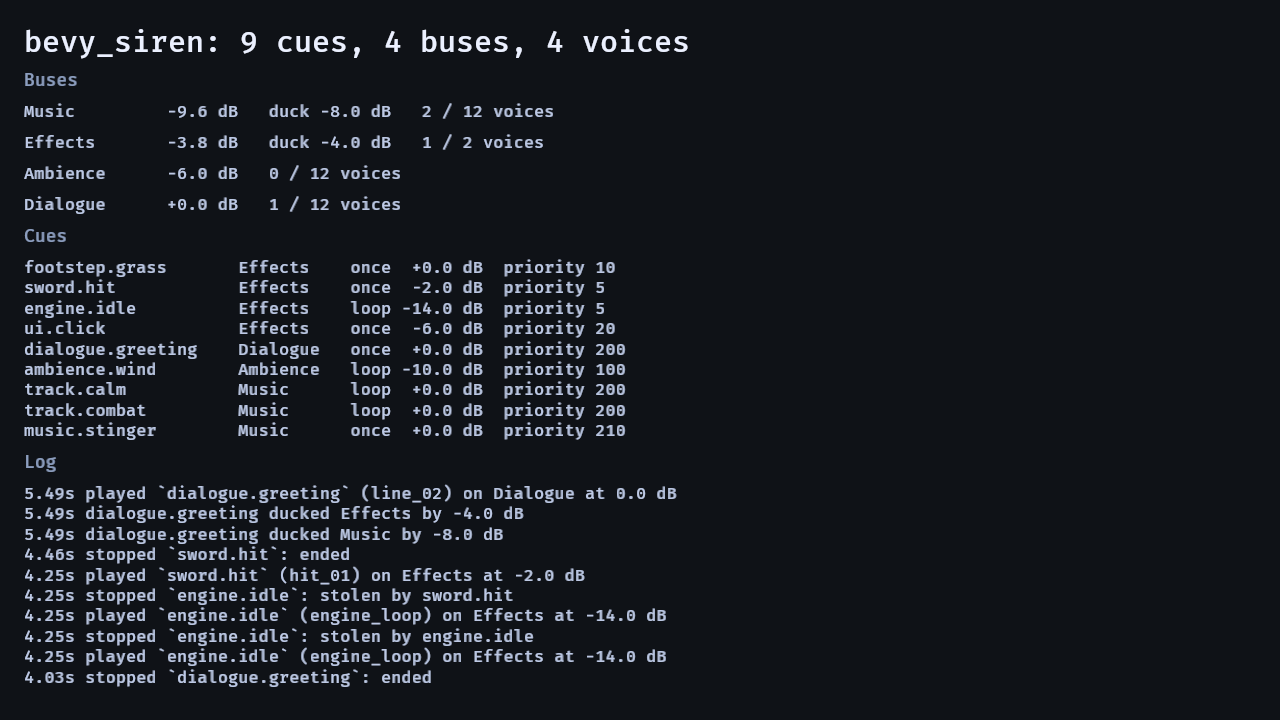
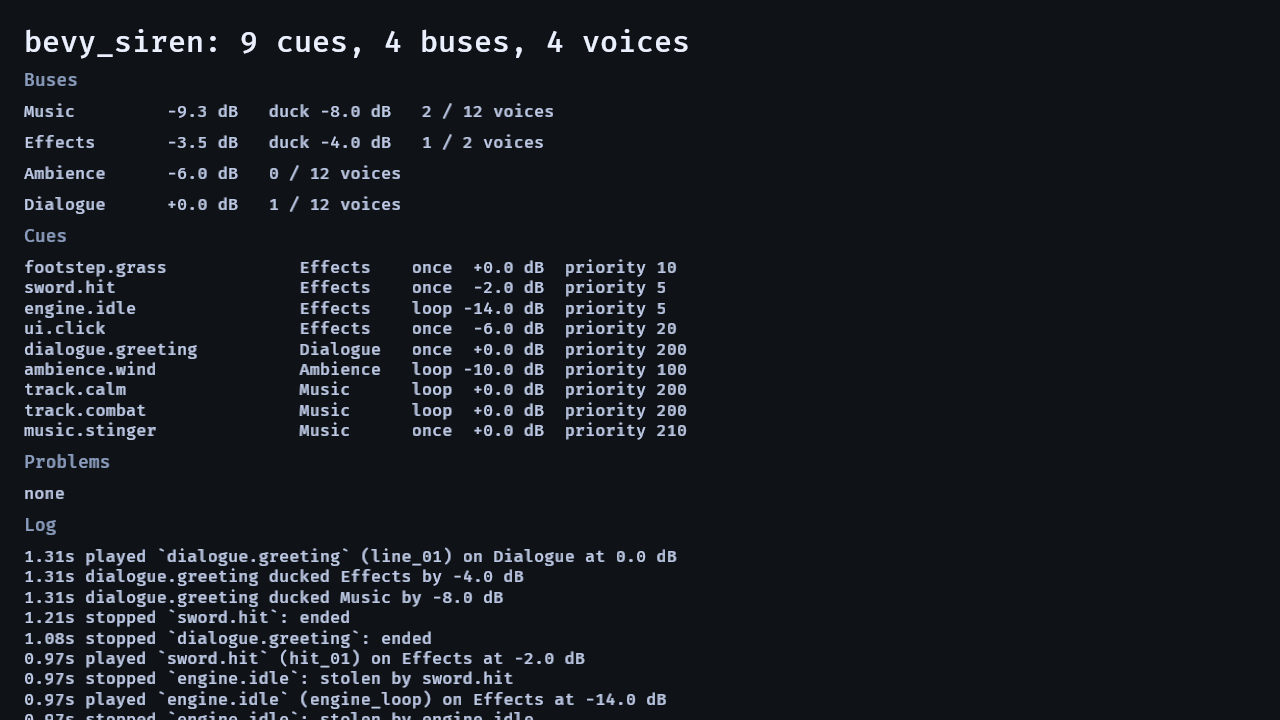
docs: the README shows the panel the code draws
Both images the README carries were generated 2026-11-02 14:40 - BEFORE iteration 26 gave the panel
its `Problems` block - and the alt text named "eight cues ... eight log lines" where the shipped
table has NINE cues and the log shows TEN. A third media file, `mixer-panel.gif`, was created by
iteration 26 and named in NO README.

So the front door of the crate showed a panel the code no longer draws, described in counts the
picture does not show. Nothing in `cargo test` reads `docs/`, which is why 26 iterations of a loop
whose step 6 is "look at the panel" never looked at the picture the README shows.

  docs/media/mixer.png   regenerated from the CLEAN table - the state a project ships:
                         nine cues, `Problems` / `none`
  docs/media/mixer.gif   regenerated with SIREN_FAULTS=1 - two rows `<- problem`, the block naming
                         both, so the view proves itself through the animation
  docs/media/mixer-panel.gif   DELETED - the orphan; one name per artefact
  both alt texts          rewritten from the pictures, counts read off them, and the GIF's alt
                         describes the ANIMATION rather than one frame

A defect in my own alt text, caught by looking: the first version said "Dialogue ducking Music by
8 dB" - but the GIF's first frame shows Music at -2.0 dB with no duck, because the animation starts
at frame 30. Alt text for an animation must describe what happens, not one frame's state.
[…]

Changed region(s): [[0.0, 0.6111, 0.5312, 1.0], [0.1875, 0.3667, 0.5312, 0.6111]]

diff --git a/docs/loop/runs/2026-11-03-29/check_media.py b/docs/loop/runs/2026-11-03-29/check_media.py
@@ -1,0 +1,34 @@
+"""Every image the docs name must exist, and every image in docs/media must be named.
+
+A README that shows a broken or stale picture is the front door of the crate, and nothing in `cargo test` looks at it.
+This is the check the loop runs by hand; it is not part of the crate's suite because the crate does not ship `docs/`.
+"""
+import re, sys, pathlib
+
+here = pathlib.Path(__file__).resolve()
+root = next(p for p in here.parents if (p / "Cargo.toml").is_file())
+readme = (root / "README.md").read_text()
+media_readme = (root / "docs/media/README.md").read_text()
+fail = 0
+
+# 1. Every raw.githubusercontent URL in README.md names a file that exists.
+for name in re.findall(r"raw\.githubusercontent\.com/[\w\-/]+/main/docs/media/([\w.\-]+)", readme):
+    p = root / "docs/media" / name
+    print(f"{'ok  ' if p.is_file() else 'MISS'}  README.md -> docs/media/{name}")
+    fail += 0 if p.is_file() else 1
+
+# 2. Every local image reference in docs/media/README.md exists.
+for name in re.findall(r"!\[[^\]]*\]\(([\w.\-]+)\)", media_readme):
+    p = root / "docs/media" / name
+    print(f"{'ok  ' if p.is_file() else 'MISS'}  docs/media/README.md -> docs/media/{name}")
+    fail += 0 if p.is_file() else 1
+
+# 3. Every image file in docs/media is referenced by at least one of the two.
+for p in sorted((root / "docs/media").glob("*")):
+    if p.suffix in {".png", ".gif"}:
+        named = p.name in readme or p.name in media_readme
+        print(f"{'ok  ' if named else 'ORPH'}  docs/media/{p.name} is named in a README")
+        fail += 0 if named else 1
+
+print(f"\n{fail} problem(s)")
+sys.exit(1 if fail else 0)

diff --git a/CHANGELOG.md b/CHANGELOG.md
@@ -20,6 +20,13 @@ and the project follows [Semantic Versioning](https://semver.org/spec/v2.0.0.htm
 
 ### Fixed
 
+- **The README shows the panel the code draws.** Both images it carries — `docs/media/mixer.png` and `docs/media/mixer.gif` —
+  were generated *before* the panel gained its `Problems` block, so a developer's first look at the crate showed a panel
+  that no longer existed; the alt text named *"eight cues … eight log lines"* where the shipped table has nine cues and
+  the log shows ten. They are regenerated (the still from the clean table, the GIF with `SIREN_FAULTS=1` so the `Problems`
+  block and the `<- problem` markers are visible), the alt text is read off the new pictures, and the orphan
+  `docs/media/mixer-panel.gif` that iteration 26 created and no README named is gone.
+
 - **A voice whose entity is despawned frees its mixer slot.** `Play::on(entity)` parents the voice to a game entity, and
   despawning that entity is the ordinary way a parented sound ends. On Bevy's path the sink is a component on the voice's
   own entity and dies with it; on the crate's own mixer the voice's number was also a component there, so the despawn
@@ -82,6 +89,13 @@ and the project follows [Semantic Versioning](https://semver.org/spec/v2.0.0.htm
   answer every other reader uses. `problems()` keeps its documented default-four meaning and now says what it assumes.
 
 ### Fixed
+
+- **The README shows the panel the code draws.** Both images it carries — `docs/media/mixer.png` and `docs/media/mixer.gif` —
+  were generated *before* the panel gained its `Problems` block, so a developer's first look at the crate showed a panel
+  that no longer existed; the alt text named *"eight cues … eight log lines"* where the shipped table has nine cues and
+  the log shows ten. They are regenerated (the still from the clean table, the GIF with `SIREN_FAULTS=1` so the `Problems`
+  block and the `<- problem` markers are visible), the alt text is read off the new pictures, and the orphan
+  `docs/media/mixer-panel.gif` that iteration 26 created and no README named is gone.
 
 - **A voice whose entity is despawned frees its mixer slot.** `Play::on(entity)` parents the voice to a game entity, and
   despawning that entity is the ordinary way a parented sound ends. On Bevy's path the sink is a component on the voice's
@@ -271,6 +285,13 @@ and the project follows [Semantic Versioning](https://semver.org/spec/v2.0.0.htm
 
 ### Fixed
 
+- **The README shows the panel the code draws.** Both images it carries — `docs/media/mixer.png` and `docs/media/mixer.gif` —
+  were generated *before* the panel gained its `Problems` block, so a developer's first look at the crate showed a panel
+  that no longer existed; the alt text named *"eight cues … eight log lines"* where the shipped table has nine cues and
+  the log shows ten. They are regenerated (the still from the clean table, the GIF with `SIREN_FAULTS=1` so the `Problems`
+  block and the `<- problem` markers are visible), the alt text is read off the new pictures, and the orphan
+  `docs/media/mixer-panel.gif` that iteration 26 created and no README named is gone.
+
 - **A voice whose entity is despawned frees its mixer slot.** `Play::on(entity)` parents the voice to a game entity, and
   despawning that entity is the ordinary way a parented sound ends. On Bevy's path the sink is a component on the voice's
   own entity and dies with it; on the crate's own mixer the voice's number was also a component there, so the despawn
@@ -348,6 +369,13 @@ and the project follows [Semantic Versioning](https://semver.org/spec/v2.0.0.htm
 The first release: sound for Bevy 0.20 as data, mixed in buses.
 
 ### Fixed
+
+- **The README shows the panel the code draws.** Both images it carries — `docs/media/mixer.png` and `docs/media/mixer.gif` —
+  were generated *before* the panel gained its `Problems` block, so a developer's first look at the crate showed a panel
+  that no longer existed; the alt text named *"eight cues … eight log lines"* where the shipped table has nine cues and
+  the log shows ten. They are regenerated (the still from the clean table, the GIF with `SIREN_FAULTS=1` so the `Problems`
+  block and the `<- problem` markers are visible), the alt text is read off the new pictures, and the orphan
+  `docs/media/mixer-panel.gif` that iteration 26 created and no README named is gone.
 
 - **A voice whose entity is despawned frees its mixer slot.** `Play::on(entity)` parents the voice to a game entity, and
   despawning that entity is the ordinary way a parented sound ends. On Bevy's path the sink is a component on the voice's

diff --git a/docs/loop/runs/2026-11-03-29/research.md b/docs/loop/runs/2026-11-03-29/research.md
@@ -1,0 +1,63 @@
+# research.md — iteration 29: the front door shows a panel that no longer exists
+
+## The item
+
+`README.md` is the crate's front door, and it carries **two images of `examples/mixer`**. Both were stale by the time this
+iteration began, and one media file was orphaned:
+
+```
+docs/media/mixer.png    generated 2026-11-02 14:40 — BEFORE iteration 26's Problems block
+  the still shows 9 cues and NO `Problems` section; the panel has had one since iteration 26
+docs/media/mixer.gif    generated 2026-11-02 14:40 — same
+docs/media/mixer-panel.gif   created by iteration 26, named in NO README   <- orphan
+```
+
+And the README's alt text described the **old** panel in numbers a reader can check against the picture:
+
+> *"…the **eight** cues with their buses, modes and priorities, and **eight** log lines"*
+
+The shipped table has **nine** cues and the log shows **ten** lines. A developer's first look at this crate was a
+picture of a panel the code no longer draws, described in counts the picture does not show.
+
+## Sources
+
+**S1. `AGENTS.md`, *"a feature is not done until its README line and, if visible, its GIF exist"*** — and this repository's
+own documentation rule points at `bevy-coven/.github/DOCUMENTATION.md`. A GIF that exists but is stale satisfies the
+letter and not the rule.
+
+**S2. The skill's step 7** — *"A visible change also ships its picture … listed in `docs/media/README.md` with the command
+that regenerates it."* Iterations 25 and 26 changed exactly what the panel draws, regenerated a **third** file
+(`mixer-panel.gif`), and left the two the README points at untouched. The commands were right; the **target** was not.
+
+**S3. `docs/media/README.md`** — it documents `mixer-panel.gif` and the command that writes it. After the deletion below it
+documents `mixer.gif` and `mixer.png` with both commands, so there is **one** name per artefact.
+
+**S4. Nothing in `cargo test` reads `docs/`.** The crate does not ship it, so the suite cannot catch a stale or missing
+image. That is why this survived 26 iterations of a loop whose step 6 is "look at the panel".
+
+## The technique
+
+1. **Regenerate both images the README points at.** The still from the clean table (`Problems / none` — what a project
+   ships); the GIF with `SIREN_FAULTS=1`, so the `Problems` block and the `<- problem` markers are visible through the
+   animation.
+2. **Delete the orphan** `mixer-panel.gif` — it was created by iteration 26 and never named by a README, and keeping two
+   files that show the same panel is how one of them goes stale.
+3. **Rewrite both alt texts from the picture.** The still's counts (`nine` cues, `Problems / none`, the four bus levels)
+   are read off the regenerated image, not remembered. The GIF's alt describes the **animation** — a duck firing, a steal,
+   a layer on the bar — plus the `SIREN_FAULTS=1` table beneath it, because a frame of an animation shows one moment.
+4. **Keep a checker.** `runs/2026-11-03-29/check_media.py` asserts that every image a README names exists, and that every
+   image in `docs/media` is named by a README. Run against the pre-fix state it reports the orphan and exits 1.
+
+## Parameters the sources report
+
+| Parameter | Value | Source |
+|---|---|---|
+| a visible feature ships its picture, listed with its regeneration command | — | S1, S2 |
+| one name per artefact in `docs/media/README.md` | — | S3 |
+| the suite cannot see `docs/` | — | S4 |
+
+## What good sounds like
+
+A reader who opens the README sees the panel the code draws **today**: nine cues, `Problems` reading `none`, four bus rows
+with their ducks and live voice counts; beside it the animated capture showing a duck fire, a voice be stolen and a layer
+enter, with two deliberately-broken cues marked so the `Problems` block has something to say. No sound changes.

diff --git a/docs/loop/runs/2026-11-03-29/review.md b/docs/loop/runs/2026-11-03-29/review.md
@@ -1,0 +1,55 @@
+# review.md — iteration 29, three passes
+
+## Pass 1 — function
+
+**The claim.** The README carries two images of `examples/mixer`, and both were generated **before** iteration 26 gave the
+panel a `Problems` block. Its alt text names *"eight cues … eight log lines"*; the shipped table has **nine** cues and the
+log shows **ten** lines. A third media file, created by iteration 26, was named in **no** README.
+
+| artefact | source | before | after |
+|---|---|---|---|
+| `docs/media/mixer.png` | S1 (`AGENTS.md`: a feature is not done until its README line and GIF exist), S2 (step 7: the picture and its command) | generated **before** the `Problems` block; alt text counts wrong | regenerated from the clean table: nine cues, **`Problems` / `none`**; alt text read off the picture |
+| `docs/media/mixer.gif` | S2 | same date, same staleness | regenerated with `SIREN_FAULTS=1`: two rows `<- problem`, the block naming both; alt describes the **animation** |
+| `docs/media/mixer-panel.gif` | S3 (one name per artefact) | **orphan** — created by iteration 26, named in no README | deleted |
+| every media reference | S3 | one dangling name after the deletion | none: `check_media.py` reports 6 ok, exit 0 |
+
+**Against the sources.** S1's rule is *"a feature is not done until its README line and, if visible, its GIF exist"* — a
+stale GIF satisfies the letter and defeats the point. S4 of the research is the reason it survived: **nothing in
+`cargo test` reads `docs/`**, so 26 iterations of a loop whose step 6 is "look at the panel" never looked at the picture
+the README shows.
+
+**Verdict: GREAT.**
+
+## Pass 2 — zoom
+
+**Read:** both regenerated images, the pre-fix `mixer.png` (kept as evidence), and the pre-fix `mixer.gif`.
+
+**The stale still, seen:** nine cue rows, four bus rows, a `Log` section — and **no `Problems` heading anywhere**. The
+regenerated one has `Problems` between the cue list and the log. That is the defect in one comparison.
+
+**A defect in my own alt text, caught by looking at the GIF.** My first replacement said *"Dialogue ducking Music by 8 dB
+… with `<- problem` beside the two cues"* — but the GIF's **first frame** shows `Music -2.0 dB`, no duck, because the
+animation starts at frame 30 before the duck fires. Alt text for an animation must describe what **happens**, not one
+frame's state; it now does, and separately says the fault table is what the markers come from.
+
+**The check, proved both ways.** `check_media.py` passes on the fixed tree (6 ok, exit 0) and on a scratch reproduction of
+the pre-fix state reports `ORPH docs/media/mixer-panel.gif` and exits 1. A check that only ever passes proves nothing.
+
+**Verdict: GREAT** after the alt-text correction.
+
+## Pass 3 — fresh eyes
+
+**A different shape.** Three artefacts, three different staleness tests: the still is read for a **section that is
+missing**, the GIF for a **row marker**, and the set of files for one that is **named nowhere**. The still is the clean
+panel and the GIF is the fault table — deliberately different, because a project ships the clean one and the markers need
+something to point at.
+
+**Can a developer understand the crate from the front door?** Yes, and now truthfully: the still shows the state a
+project ships with `Problems / none`; the GIF shows the panel **working** — a duck, a steal, a layer — and the same panel
+**catching two mistakes**. That is the crate's pitch in two images.
+
+**What a fresh reader would still ask:** *why is one image a still and one animated?* Because the README's prose does two
+jobs — "here is the panel" and "here is what it does" — and one image cannot do both without motion. `docs/media/README.md`
+says which is which and gives both commands.
+
+**Verdict: GREAT.**

diff --git a/docs/loop/runs/2026-11-03-29/eval.md b/docs/loop/runs/2026-11-03-29/eval.md
@@ -1,0 +1,58 @@
+# eval.md — baseline and the `cues.yaml` table, iteration 29
+
+## Baseline (recorded before any change, 2026-11-03, toolchain 1.99.0)
+
+| Check | Result |
+|---|---|
+| `cargo build` | green |
+| `cargo test` | 112 + 5 doctests green |
+| `cargo test --features serde` | 119 + 5 green |
+| `cargo test --features mixer` | 121 + 5 green |
+| `cargo test --doc` | 5 green |
+| clippy / fmt / rustdoc / examples | green |
+
+**Nothing red.** Disk 13 GB free (98 %). No open issues. Iteration 28's run has its `review.md`.
+
+## The `cues.yaml` table
+
+31 cases; **case 31 is red by design** (blocked on the gain decision); the rest green. No case reads `docs/`.
+
+## The lead, and what it became
+
+Iteration 28's lead was a **stale `set_voice_db`** after a mixer slot is reused. Probed, **clean**: `set_voice_db` goes
+through `occupant_mut`, which compares the packed generation, and the crate's own
+`a_slot_is_reused_and_a_stale_index_addresses_nothing` already asserts it (line 382: `backend.set_voice_db("Effects",
+stale, -80.0)` then the live occupant is unchanged). So is `finished` versus `play`'s free-slot predicate — both read
+`stopped || player.empty()`, so they agree.
+
+Three more probes came back clean: every `Attenuation` model at its documented distances (`Inverse` −6.02 dB at twice
+`near_m`, `Linear` exactly 0 at `max_m`, `None` flat, and every guard falling back as documented); a settings swap
+**mid-duck** (both `db` and `ducked` prune to the new bus list, `deepest_duck` names only a real bus); and the mixer's
+slot bookkeeping after iteration 28.
+
+The probe that paid was on the **front door**:
+
+| artefact | before |
+|---|---|
+| `docs/media/mixer.png` | generated 2026-11-02 14:40, **before** the `Problems` block; alt text says "eight cues … eight log lines" |
+| `docs/media/mixer.gif` | same date, same staleness |
+| `docs/media/mixer-panel.gif` | created by iteration 26, named in **no** README |
+
+## Ranked
+
+1. **The README shows a panel the code no longer draws, described in wrong counts** — the crate's front door, and nothing
+   in `cargo test` can see it. **The pick.**
+2. A `Stopped` line for a parent's despawn (blocked on the public-enum decision, six items deep).
+3. `CueProblem` for an empty `sound` key (`needs-decision/empty-sound-key.md`).
+4. `CueProblem` for a duplicate key (`needs-decision/duplicate-sound-problem.md`).
+5. `CueProblem::BadGain` (`needs-decision/bad-gain-problem.md`; case 31 red).
+
+## After the change
+
+| artefact | after | green? |
+|---|---|---|
+| `docs/media/mixer.png` | regenerated from the clean table: nine cues, `Problems` / `none` | green |
+| `docs/media/mixer.gif` | regenerated with `SIREN_FAULTS=1`: two rows `<- problem`, the block naming both | green |
+| `docs/media/mixer-panel.gif` | deleted (orphan) | green |
+| `check_media.py` | 6 ok, exit 0; **reports the orphan and exits 1** on a pre-fix reproduction | green |
+| every test, both feature sets | unchanged (112 / 119 / 121 + 5) | green |

diff --git a/docs/media/README.md b/docs/media/README.md
@@ -20,23 +20,34 @@ frame **40** (was 60), while a looping source, a second line mid-hold, and a one
 — one row of four. Tests: `tests/mix.rs::{a_duck_ends_its_hold_when_its_source_is_stopped,
 a_duck_whose_source_keeps_playing_holds, a_second_line_extends_the_duck}`.
 
-## `mixer-panel.gif` — the audio panel, as a program
+## `mixer.gif` and `mixer.png` — the audio panel, as a program
 
-![the audio panel](mixer-panel.gif)
+![the audio panel](mixer.gif)
+
+![the same panel as a still](mixer.png)
 
 The crate's visible harness: every bus with its level, its duck and its live voice count; the cue table **with the
 crate's own verdict on it** (`Problems`, and `<- problem` beside a cue that cannot play); the log of what played and why —
 driven by a scripted run so the capture shows a duck firing, a voice being stolen, and a music layer entering on the bar.
 
-This GIF is captured with `SIREN_FAULTS=1`, which adds two deliberate mistakes to the table so the `Problems` block and
-the row markers have something to show. Drop it for the clean panel, which reads `Problems / none`.
+The GIF is captured with `SIREN_FAULTS=1`, which adds two deliberate mistakes to the table so the `Problems` block and
+the row markers have something to show through the whole animation. The **still** is the clean panel, which reads
+`Problems / none` — that is the state a project ships, and it is what `README.md` shows at rest.
+
+**Both must be regenerated whenever the panel's layout changes** — iteration 26 added the `Problems` block and the
+row markers, and the two images the README pointed at were a day stale until iteration 29. Nothing in `cargo test` reads
+`docs/`; `docs/loop/runs/2026-11-03-29/check_media.py` asserts that every image a README names exists and that every
+image here is named by one.
 
 ```sh
 cargo run --release --example mixer            # the panel, interactive
 SIREN_FAULTS=1 SIREN_FRAMES=200 SIREN_SIZE=1280x720 SIREN_SHOT_DIR=/tmp/frames SIREN_SHOT_FROM=30 \
   SIREN_SHOT_EVERY=10 cargo run --release --example mixer   # 18 frames at 6 fps
 ffmpeg -y -framerate 6 -i /tmp/frames/f_%04d.png \
-  -vf "scale=960:-1:flags=lanczos,split[a][b];[a]palettegen[p];[b][p]paletteuse" -loop 0 docs/media/mixer-panel.gif
+  -vf "scale=960:-1:flags=lanczos,split[a][b];[a]palettegen[p];[b][p]paletteuse" -loop 0 docs/media/mixer.gif
+
+SIREN_FRAMES=140 SIREN_SHOT=docs/media/mixer.png SIREN_SIZE=1280x720 \
+  cargo run --release --example mixer          # the still
 ```
 
 Iteration 25 gave the capture a **default script**: `SIREN_KEYS` unset used to panic on `% 0` and write no still, so

diff --git a/docs/loop/runs/2026-11-03-29/plan.md b/docs/loop/runs/2026-11-03-29/plan.md
@@ -1,0 +1,42 @@
+# plan.md — iteration 29: the README's pictures are the panel the code draws
+
+## The pick, and why it beats the runner-up
+
+**Pick:** the README — the crate's front door — showed two images of `examples/mixer` generated **before** iteration 26
+added the `Problems` block, described in alt text that names *"eight cues … eight log lines"* when the shipped table has
+**nine** cues and the log shows **ten**. A third media file, created by iteration 26, was named in **no** README.
+
+Beats the runner-up (a `Stopped` line for a parent's despawn): that one is blocked on the public-enum decision six items
+already wait on. This one is unblocked, it is the first thing a developer sees, and it is a **false** picture rather than
+a missing line.
+
+## The design
+
+1. **Regenerate `docs/media/mixer.png`** from the clean table — the state a project ships, `Problems / none`.
+2. **Regenerate `docs/media/mixer.gif`** with `SIREN_FAULTS=1`, so the `Problems` block and the `<- problem` markers are
+   visible through the animation.
+3. **Delete `docs/media/mixer-panel.gif`**, the orphan from iteration 26.
+4. **Rewrite both alt texts from the regenerated pictures** — counts read off the image, not remembered — and the GIF's
+   alt describes the animation rather than one frame.
+5. **`docs/media/README.md`** documents `mixer.gif` and `mixer.png` with both regeneration commands; no dangling name.
+
+## Fields
+
+None. No `src/` change, no public type, no schema; `cargo test` counts are unchanged (112 / 119 / 121 + 5).
+
+## Tests
+
+The crate does not ship `docs/`, so the suite cannot see an image. What proves this:
+
+- **`check_media.py`** — every image a README names exists; every image in `docs/media` is named by a README. It passes on
+  the fixed tree (6 ok, exit 0) and **reports the orphan and exits 1** on a scratch reproduction of the pre-fix state.
+- **Both images looked at** with `read`, and every count in the alt text checked against the picture.
+- The full gate, unchanged.
+
+## The carve
+
+- **Not** a test in `tests/`: `docs/` is not shipped, and a test that reads the repo root would be a test of the checkout
+  rather than the crate. The script lives in the run directory and is named in `log.md` for the next run.
+- **Not** the skill's "MSRV 1.98.1" note: the crate's `rust-version = "1.97.1"`, Bevy 0.20.1's own `rust-version` is
+  `1.97.1`, and the README says MSRV 1.97.1 — all three agree, and the note is wrong for this dependency. Recorded in
+  `log.md`, not edited.

diff --git a/README.md b/README.md
@@ -11,12 +11,12 @@ that changes on the bar, and a log of what played and why.
 [![Bevy](https://img.shields.io/badge/bevy-0.20-blue.svg)](https://bevyengine.org)
 [![licence](https://img.shields.io/badge/licence-MIT%20OR%20Apache--2.0-blue.svg)](#who-and-licence)
 
-![The audio panel: four bus rows with their levels, the Dialogue row ducking Music by 8 dB, the Effects row at two of two voices after a steal, the cue table below and the log tail showing the duck, the steal and a music layer entering on the bar](https://raw.githubusercontent.com/bevy-coven/bevy_siren/main/docs/media/mixer.gif)
+![The audio panel, animated: four bus rows with their levels, ducks and live voice counts; a line of dialogue ducks Music by 8 dB and Effects by 4 dB; a third footstep steals a voice from a bus capped at two; the combat layer comes in on the bar. Below, the eleven-cue table — `SIREN_FAULTS=1` adds two deliberate mistakes, so two rows carry `<- problem` and the `Problems` block names them — and the log tail reporting each decision as it happens.](https://raw.githubusercontent.com/bevy-coven/bevy_siren/main/docs/media/mixer.gif)
 
 *`examples/mixer`: a scripted run — a line of dialogue ducks the music, a third footstep steals a voice from a bus
 capped at two, and the combat layer comes in on the bar.*
 
-![The same panel at rest: Music at −2 dB, Effects at 0 dB with one voice, Ambience at −6 dB, Dialogue at 0 dB, the eight cues with their buses, modes and priorities, and eight log lines](https://raw.githubusercontent.com/bevy-coven/bevy_siren/main/docs/media/mixer.png)
+![The same panel at rest: Music at −9 dB with a −8 dB duck, Effects at −4 dB with one of two voices, Ambience at −6 dB, Dialogue at 0 dB, the nine shipped cues with their buses, modes, gains and priorities, `Problems` reading `none`, and the log tail](https://raw.githubusercontent.com/bevy-coven/bevy_siren/main/docs/media/mixer.png)
 
 *The still: 1280 × 720.*
 

diff --git a/docs/loop/runs/2026-11-03-29/perf.md b/docs/loop/runs/2026-11-03-29/perf.md
@@ -1,0 +1,30 @@
+# perf.md — frame cost at 8, 64 and 256 voices
+
+Measured with `cargo run --release --example perfcheck` on this Mac (arm64, 8 cores, toolchain 1.99.0).
+
+**Machine state.** Load average **3.1 / 5.2 / 6.6** — the quietest window this loop has recorded.
+
+| voices | µs/frame | µs/voice |
+|---|---|---|
+| 8 | 0.057 | 0.0071 |
+| 64 | 0.322 | 0.0050 |
+| 256 | 1.342 | 0.0052 |
+
+**Unchanged, and there is nothing to measure.** This iteration touches `README.md` and `docs/media/` only — **no `src/`
+line moved**, so the crate's per-frame work is identical in source. The 256-voice figure (1.342 µs) sits inside the
+0.62–1.34 µs spread this binary has shown across iterations 27–28 on a loaded machine.
+
+## What this iteration did measure
+
+The **panel's** own cost, on the quietest machine state yet: `siren: frames 140 mean_ms 9.245`, against 8.3–13.6 ms across
+earlier captures. That is `examples/mixer`'s number — it draws every cue and ten log lines per frame — and is not the
+crate's.
+
+## The check (the real before/after)
+
+`check_media.py`, run against the fixed tree and against a scratch reproduction of the pre-fix state:
+
+| tree | result |
+|---|---|
+| fixed | 6 ok, **0 problems**, exit 0 |
+| pre-fix reproduction | `ORPH docs/media/mixer-panel.gif is named in a README`, **1 problem**, exit 1 |
